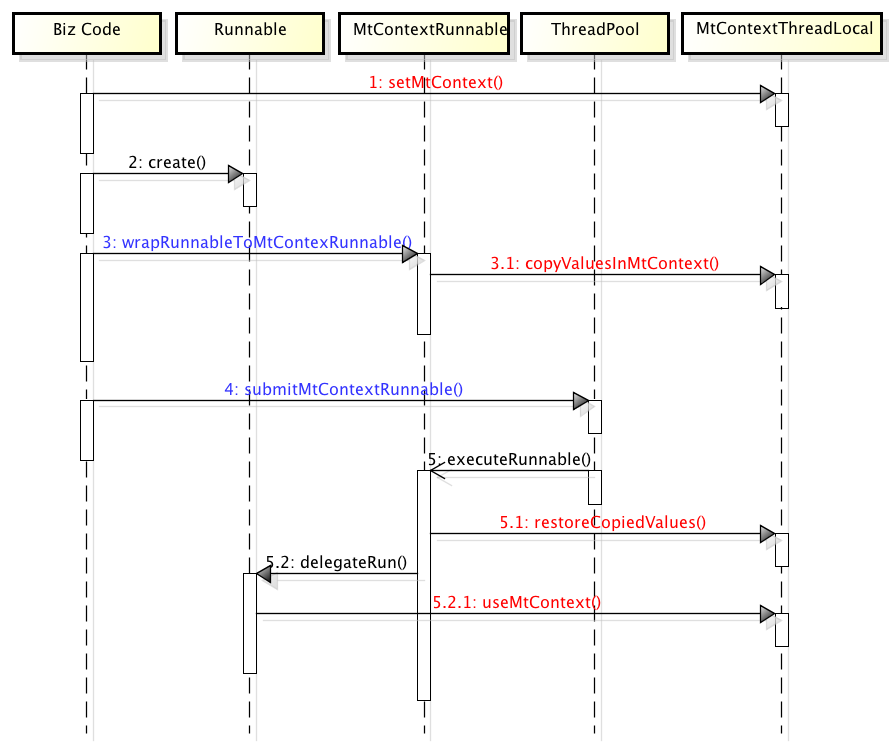
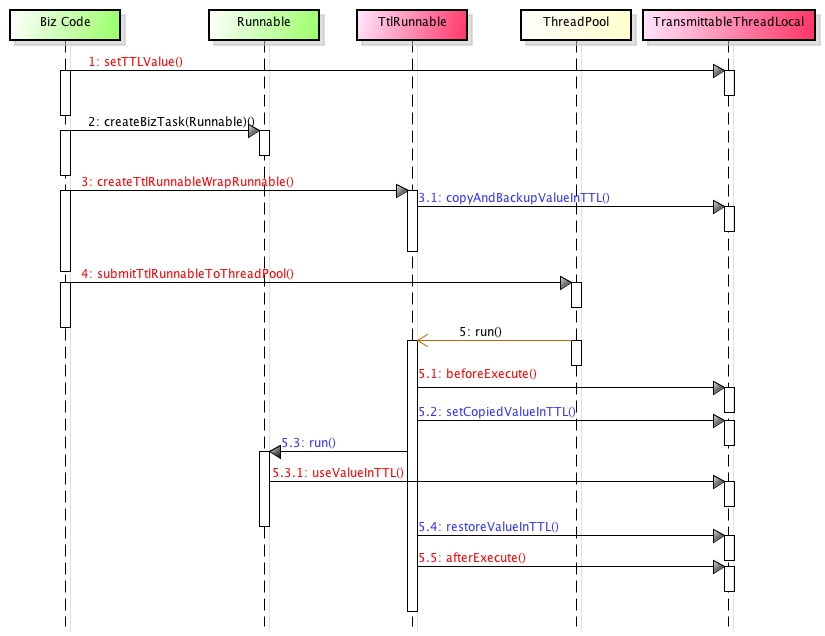
update sequence diagram #55 #21

diff --git a/README.md b/README.md
@@ -23,7 +23,7 @@ Transmittable ThreadLocal(TTL)
   - [1. 简单使用](#1-%E7%AE%80%E5%8D%95%E4%BD%BF%E7%94%A8)
   - [2. 保证线程池中传递值](#2-%E4%BF%9D%E8%AF%81%E7%BA%BF%E7%A8%8B%E6%B1%A0%E4%B8%AD%E4%BC%A0%E9%80%92%E5%80%BC)
     - [2.1 修饰`Runnable`和`Callable`](#21-%E4%BF%AE%E9%A5%B0runnable%E5%92%8Ccallable)
-      - [这种使用方式的时序图](#%E8%BF%99%E7%A7%8D%E4%BD%BF%E7%94%A8%E6%96%B9%E5%BC%8F%E7%9A%84%E6%97%B6%E5%BA%8F%E5%9B%BE)
+      - [整个过程的完整时序图](#%E6%95%B4%E4%B8%AA%E8%BF%87%E7%A8%8B%E7%9A%84%E5%AE%8C%E6%95%B4%E6%97%B6%E5%BA%8F%E5%9B%BE)
     - [2.2 修饰线程池](#22-%E4%BF%AE%E9%A5%B0%E7%BA%BF%E7%A8%8B%E6%B1%A0)
     - [2.3 使用Java Agent来修饰JDK线程池实现类](#23-%E4%BD%BF%E7%94%A8java-agent%E6%9D%A5%E4%BF%AE%E9%A5%B0jdk%E7%BA%BF%E7%A8%8B%E6%B1%A0%E5%AE%9E%E7%8E%B0%E7%B1%BB)
       - [`Java Agent`的使用方式在什么情况下`TTL`会失效](#java-agent%E7%9A%84%E4%BD%BF%E7%94%A8%E6%96%B9%E5%BC%8F%E5%9C%A8%E4%BB%80%E4%B9%88%E6%83%85%E5%86%B5%E4%B8%8Bttl%E4%BC%9A%E5%A4%B1%E6%95%88)
@@ -141,9 +141,9 @@ executorService.submit(ttlCallable);
 String value = parent.get();
 ```
 
-#### 这种使用方式的时序图
+#### 整个过程的完整时序图
 
-<img src="docs/TransmittableThreadLocal-sequence-diagram.png" alt="时序图" width="600" />
+![时序图](docs/TransmittableThreadLocal-sequence-diagram.png)
 
 ### 2.2 修饰线程池
 
